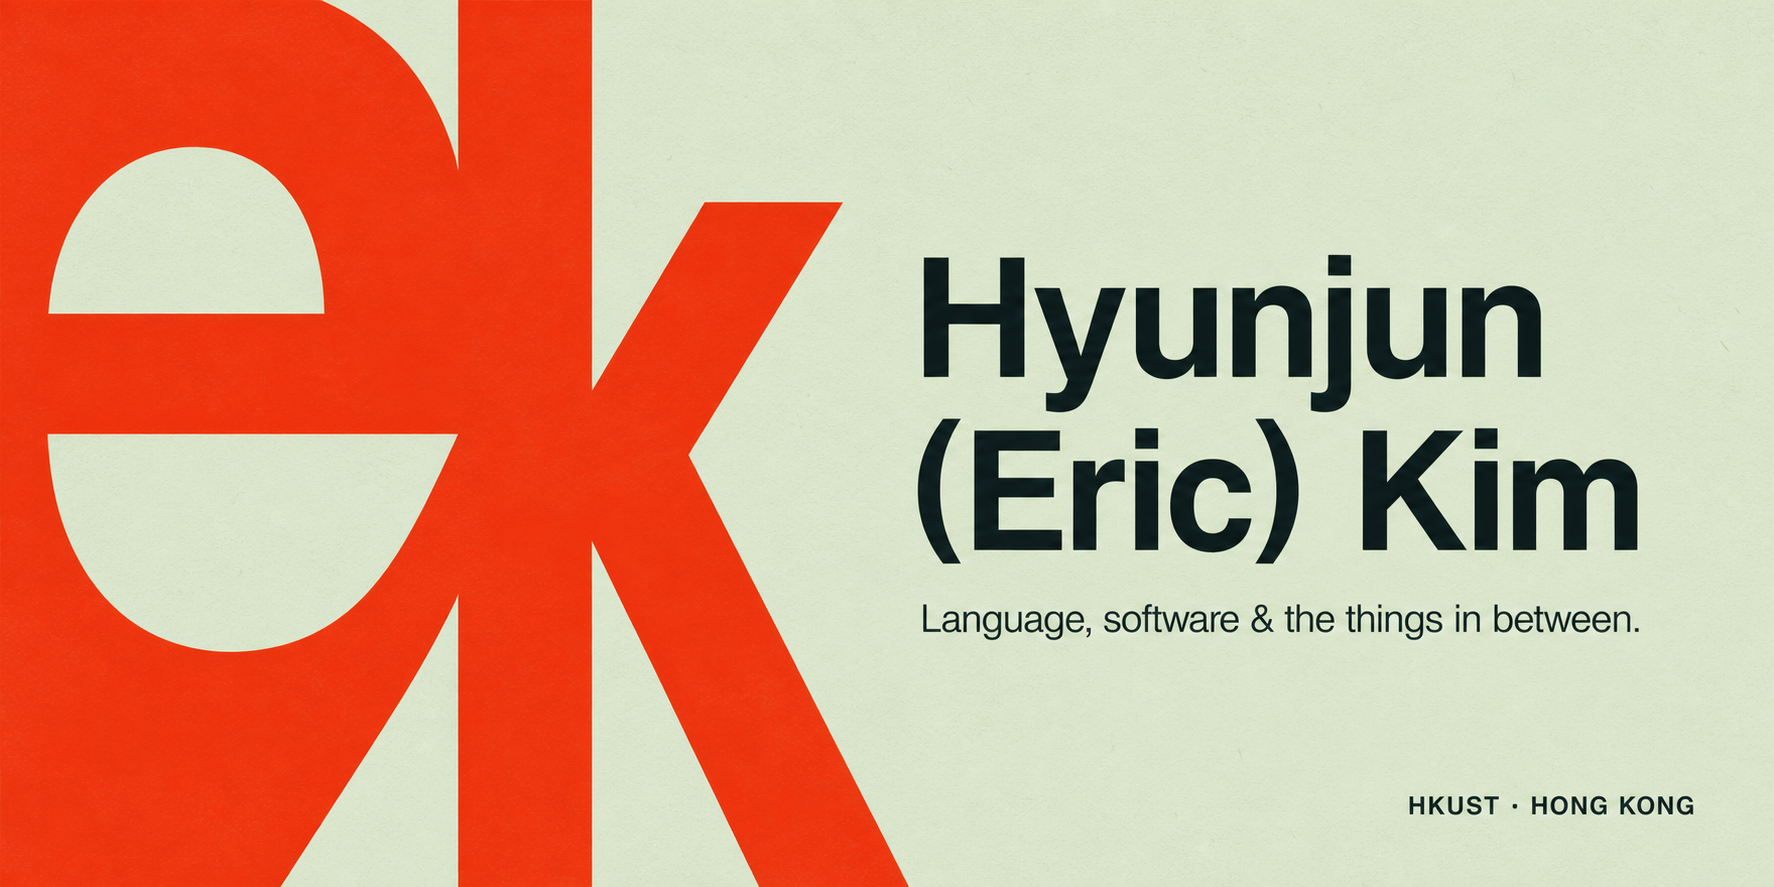
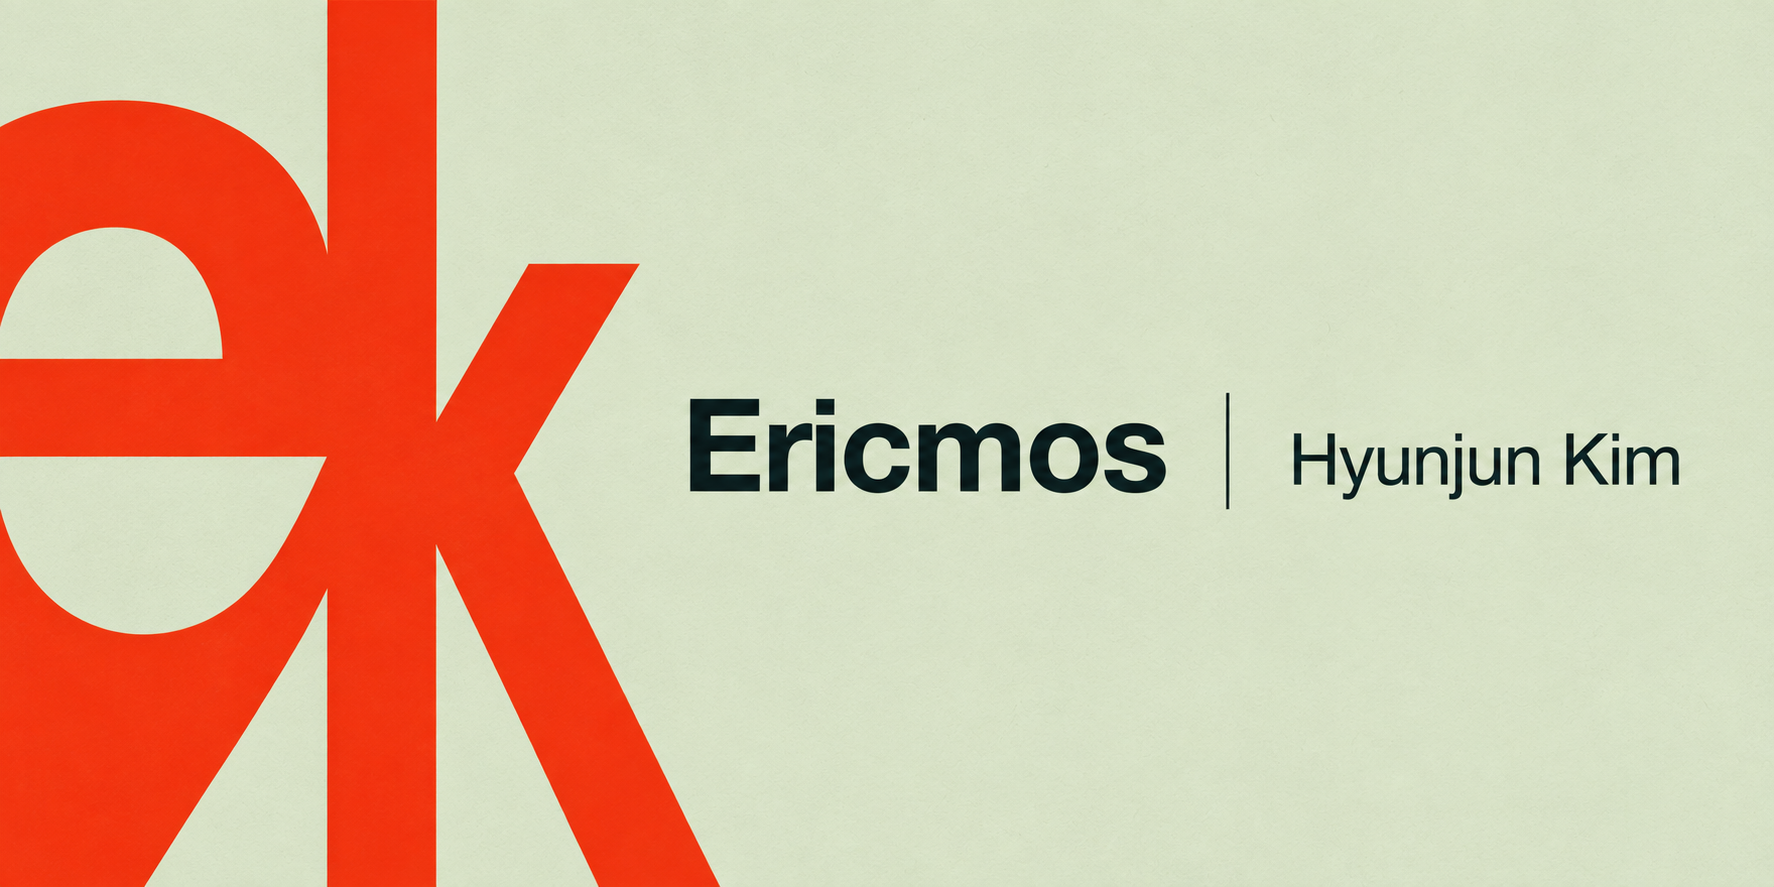
Refine cover to Ericmos and Hyunjun Kim signature

Changed region(s): [[0.0, 0.0, 0.9611, 1.0], [0.5271, 0.6697, 0.9301, 0.7306], [0.7751, 0.8828, 0.9611, 0.9436]]

diff --git a/README.md b/README.md
@@ -1,4 +1,4 @@
-<img src="assets/cover.png" alt="Hyunjun (Eric) Kim. Language, software and the things in between. HKUST, Hong Kong." width="100%" />
+<img src="assets/cover.png" alt="Ericmos | Hyunjun Kim" width="100%" />
 
 I'm **Eric**, a Marketing and Information Systems student at HKUST and co-founder of **MELI**. I work on language-learning tools and make software for the everyday things I keep thinking about.
 
